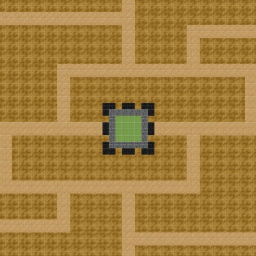
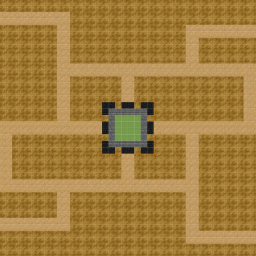
Try to move enemies v3

diff --git a/src/main/java/com/example/towerdefense/GameController.java b/src/main/java/com/example/towerdefense/GameController.java
@@ -35,7 +35,9 @@ public class GameController {
             = 600 / ROWS;                       // Smallest grid unit - 1 tile size
 
     private ProgressBar monumentBar;            // Monument health bar
-    private double monumentHealth;              // Starting monument health
+    private double monumentMaxHealth;           // Starting monument health
+    private double monumentCurHealth;           // Current monument health
+    private Location monumentLocation;          // Monument center location
 
     @FXML
     private VBox sideContainer;                 // Side menu container
@@ -65,10 +67,10 @@ public class GameController {
     private Tower selectedTower;                // Currently selected tower from the menu
     private List<Tower> playerTowers;           // List of all towers placed by player
 
-    private int spawnRate;                      // Number of enemies spawned every game cycle
     private List<Location> spawnPoints;         // List of all spawn points in the map
     private List<Integer> spawnHeadings;        // List of headings corresponding to spawn points
-    private List<Enemy> enemies;                // List of all alive enemies
+    private List<Enemy> movingEnemies;          // List of all enemies still moving
+    private List<Enemy> reachedEnemies;         // List of all enemies that have reached monument
 
     private Random rand;
 
@@ -83,10 +85,10 @@ public class GameController {
         playerTowers = new ArrayList<>();
         monumentBar = new ProgressBar();
         gameTowers = FXCollections.observableArrayList();
-        spawnRate = 3;
         spawnPoints = new ArrayList<>();
         spawnHeadings = new ArrayList<>();
-        enemies = new ArrayList<>();
+        movingEnemies = new ArrayList<>();
+        reachedEnemies = new ArrayList<>();
         rand = new Random();
 
         // Initialize independent game variables
@@ -139,24 +141,25 @@ public class GameController {
         switch (difficulty) {
         case "Beginner":
             money = 500;
-            monumentHealth = 1.0;
+            monumentMaxHealth = 1.0;
             costDifficultyFactor = 0;
             break;
         case "Moderate":
             money = 450;
-            monumentHealth = 0.9;
+            monumentMaxHealth = 0.9;
             costDifficultyFactor = 10;
             break;
         default:
             money = 400;
-            monumentHealth = 0.8;
+            monumentMaxHealth = 0.8;
             costDifficultyFactor = 20;
             break;
         }
+        monumentCurHealth = monumentMaxHealth;
         moneyLabel.setText(money + "");
 
         // Initialize monument health bar
-        monumentBar.setProgress(monumentHealth);
+        monumentBar.setProgress(monumentMaxHealth);
         monumentBar.setId("monumentHealth");
         gamePane.getChildren().add(monumentBar);
 
@@ -184,9 +187,14 @@ public class GameController {
         }
 
         // Set location of monument health bar
-        monumentBar.setTranslateX(TILE_SIZE * (s.nextInt() - 1));
-        monumentBar.setTranslateY(TILE_SIZE * (s.nextInt() - 1));
+        int x = s.nextInt() - 1;
+        int y = s.nextInt() - 1;
+        monumentBar.setTranslateX(TILE_SIZE * x);
+        monumentBar.setTranslateY(TILE_SIZE * y);
         monumentBar.setPrefWidth(TILE_SIZE * s.nextInt());
+
+        // Set location of monument
+        monumentLocation = new Location(TILE_SIZE * (x + 2), TILE_SIZE * (y + 5));
 
         // Load spawn points
         int spawnPointCount = s.nextInt();
@@ -375,6 +383,7 @@ public class GameController {
             private long lastTimeUpdate;
             private long lastMoneyUpdate;
             private long lastEnemySpawned;
+            private long lastEnemyMoved;
 
             @Override
             public void handle(long now) {
@@ -385,12 +394,8 @@ public class GameController {
                     long diff = now - lastTimeUpdate;
                     if (diff >= 1_000_000_000L) {
                         updateTime();
-                        moveEnemies();
-                        try {
-                            for (Tower tower: playerTowers) {
-                                tower.updateHealth();
-                            }
-                        } catch (ConcurrentModificationException ignored) {}
+                        updateTowers();
+                        updateMonument();
                         lastTimeUpdate = now;
                     }
                 }
@@ -406,14 +411,25 @@ public class GameController {
                     }
                 }
 
-                // Every [spawnRate] seconds, spawn enemy
+                // Every 3 seconds, spawn enemy
                 if (lastEnemySpawned == 0L) {
                     lastEnemySpawned = now;
                 } else {
                     long diff = now - lastEnemySpawned;
-                    if (diff >= 1_000_000_000L * spawnRate) {
+                    if (diff >= 3_000_000_000L) {
                         spawnEnemy();
                         lastEnemySpawned = now;
+                    }
+                }
+
+                // Move enemies
+                if (lastEnemyMoved == 0L) {
+                    lastEnemyMoved = now;
+                } else {
+                    long diff = now - lastEnemyMoved;
+                    if (diff >= 10_000_000L) {
+                        moveEnemies();
+                        lastEnemyMoved = now;
                     }
                 }
             }
@@ -446,16 +462,41 @@ public class GameController {
      */
     public void spawnEnemy() {
         int index = rand.nextInt(spawnPoints.size());
-        enemies.add(new Enemy(spawnPoints.get(index), spawnHeadings.get(index), TILE_SIZE));
+        movingEnemies.add(new Enemy(spawnPoints.get(index), spawnHeadings.get(index), TILE_SIZE));
     }
 
     /**
      * Move all alive enemies
      */
     public void moveEnemies() {
-        for (Enemy enemy: enemies) {
-            enemy.move();
+        try {
+            for (Enemy enemy: movingEnemies) {
+                enemy.move();
+            }
+        } catch (ConcurrentModificationException ignored) {}
+    }
+
+    /**
+     * Updates health of towers
+     */
+    public void updateTowers() {
+        try {
+            for (Tower tower: playerTowers) {
+                tower.updateHealth();
+            }
+        } catch (ConcurrentModificationException ignored) {
         }
+    }
+
+    /**
+     * Updates health of monument
+     */
+    public void updateMonument() {
+        try {
+            for (Enemy enemy: reachedEnemies) {
+                enemy.damageMonument();
+            }
+        } catch (ConcurrentModificationException ignored) {}
     }
 
     /**
@@ -638,8 +679,8 @@ public class GameController {
      * Defines a location object associated with a tile or a tower object.
      */
     private static class Location {
-        private double x;
-        private double y;
+        private final double x;
+        private final double y;
 
         public Location(double x, double y) {
             this.x = x;
@@ -653,7 +694,7 @@ public class GameController {
     }
 
     private class Enemy extends StackPane {
-        private final Location location;
+        private Location location;
         private final ProgressBar healthBar;
 
         private int heading;
@@ -684,28 +725,66 @@ public class GameController {
         }
 
         public void move() {
+            boolean equalsMonumentX = monumentLocation.x - TILE_SIZE <= location.x
+                    && location.x <= monumentLocation.x + TILE_SIZE;
+            if (equalsMonumentX
+                    && monumentLocation.y - TILE_SIZE <= location.y
+                    && location.y <= monumentLocation.y + TILE_SIZE) {
+                movingEnemies.remove(this);
+                reachedEnemies.add(this);
+                return;
+            }
+
             tileIndex = (int) (location.y / TILE_SIZE)
                     * COLS + (int) (location.x / TILE_SIZE);
 
             List<Integer> possibleHeadings = new ArrayList<>();
 
-            if (heading != 4 && checkForward()) {
+            if (checkForward()) {
                 possibleHeadings.add(2);
             }
-            if (heading != 2 && checkBackward()) {
+            if (checkBackward()) {
                 possibleHeadings.add(4);
             }
-            if (heading != 1 && checkDown()) {
+            if (checkDown()) {
                 possibleHeadings.add(3);
             }
-            if (heading != 3 && checkUp()) {
+            if (checkUp()) {
                 possibleHeadings.add(1);
             }
 
-            if (possibleHeadings.size() > 0) {
-                heading = possibleHeadings.get(rand.nextInt(possibleHeadings.size()));
-                updateLocation();
+            if (possibleHeadings.contains(2) && possibleHeadings.contains(4)) {
+                if (location.x < monumentLocation.x) {
+                    possibleHeadings.remove(Integer.valueOf(4));
+                } else {
+                    possibleHeadings.remove(Integer.valueOf(2));
+                }
             }
+            if (equalsMonumentX
+                    && possibleHeadings.contains(1) && possibleHeadings.contains(3)) {
+                if (location.y < monumentLocation.y) {
+                    possibleHeadings.remove(Integer.valueOf(1));
+                } else {
+                    possibleHeadings.remove(Integer.valueOf(3));
+                }
+            }
+            if (possibleHeadings.size() > 1) {
+                if (heading == 1 && possibleHeadings.contains(3)) {
+                    possibleHeadings.remove(Integer.valueOf(3));
+                } else if (heading == 3 && possibleHeadings.contains(1)) {
+                    possibleHeadings.remove(Integer.valueOf(1));
+                }
+            }
+            if (possibleHeadings.size() > 1) {
+                if (heading == 2 && possibleHeadings.contains(4)) {
+                    possibleHeadings.remove(Integer.valueOf(4));
+                } else if (heading == 4 && possibleHeadings.contains(2)) {
+                    possibleHeadings.remove(Integer.valueOf(2));
+                }
+            }
+
+            heading = possibleHeadings.get(rand.nextInt(possibleHeadings.size()));
+            updateLocation();
         }
 
         private boolean checkForward() {
@@ -747,20 +826,16 @@ public class GameController {
         private void updateLocation() {
             switch (heading) {
                 case 1:
-                    tiles[tileIndex].rectangle.setFill(Color.WHITE);
-                    location.y -= speed;
+                    location = new Location(location.x, location.y - speed);
                     break;
                 case 2:
-                    tiles[tileIndex].rectangle.setFill(Color.BLACK);
-                    location.x += speed;
+                    location = new Location(location.x + speed, location.y);
                     break;
                 case 3:
-                    tiles[tileIndex].rectangle.setFill(Color.YELLOW);
-                    location.y += speed;
+                    location = new Location(location.x, location.y + speed);
                     break;
                 case 4:
-                    tiles[tileIndex].rectangle.setFill(Color.PINK);
-                    location.x -= speed;
+                    location = new Location(location.x - speed, location.y);
                     break;
                 default:
                     break;
@@ -769,6 +844,16 @@ public class GameController {
             this.setTranslateY(location.y);
             healthBar.setTranslateX(location.x + TILE_SIZE * 0.2);
             healthBar.setTranslateY(location.y - TILE_SIZE * 0.65);
+        }
+
+        public void damageMonument() {
+            if (monumentCurHealth > 0) {
+                monumentCurHealth -= 0.001;
+                monumentBar.setProgress(monumentCurHealth / monumentMaxHealth);
+            } /*else {
+                this.stop();
+                endButton.fire();
+            }*/
         }
     }
 }
